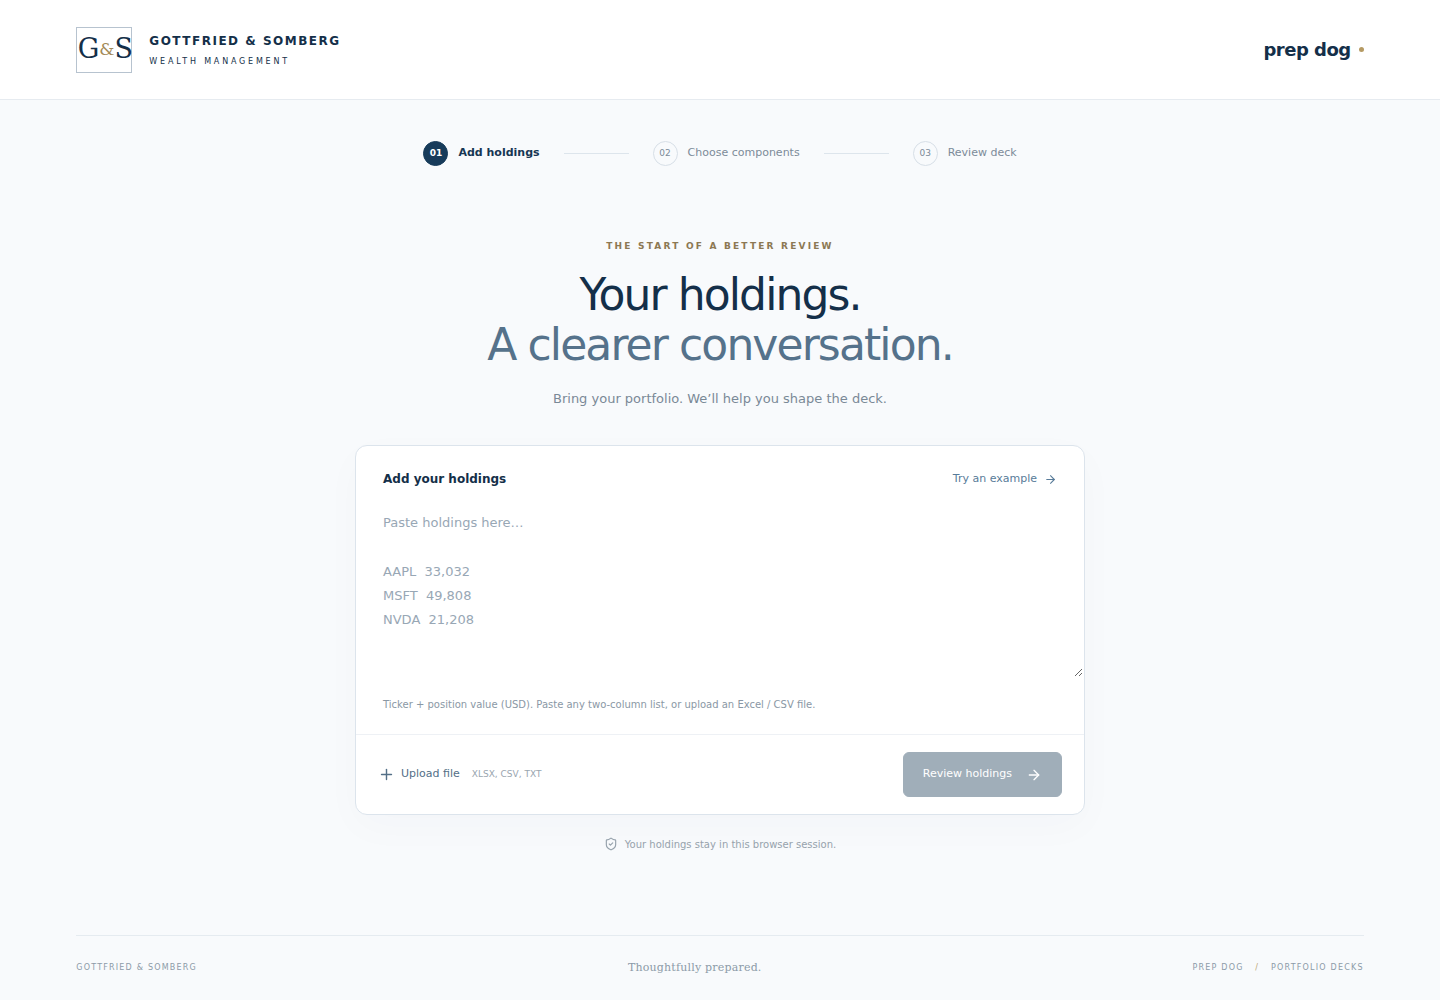
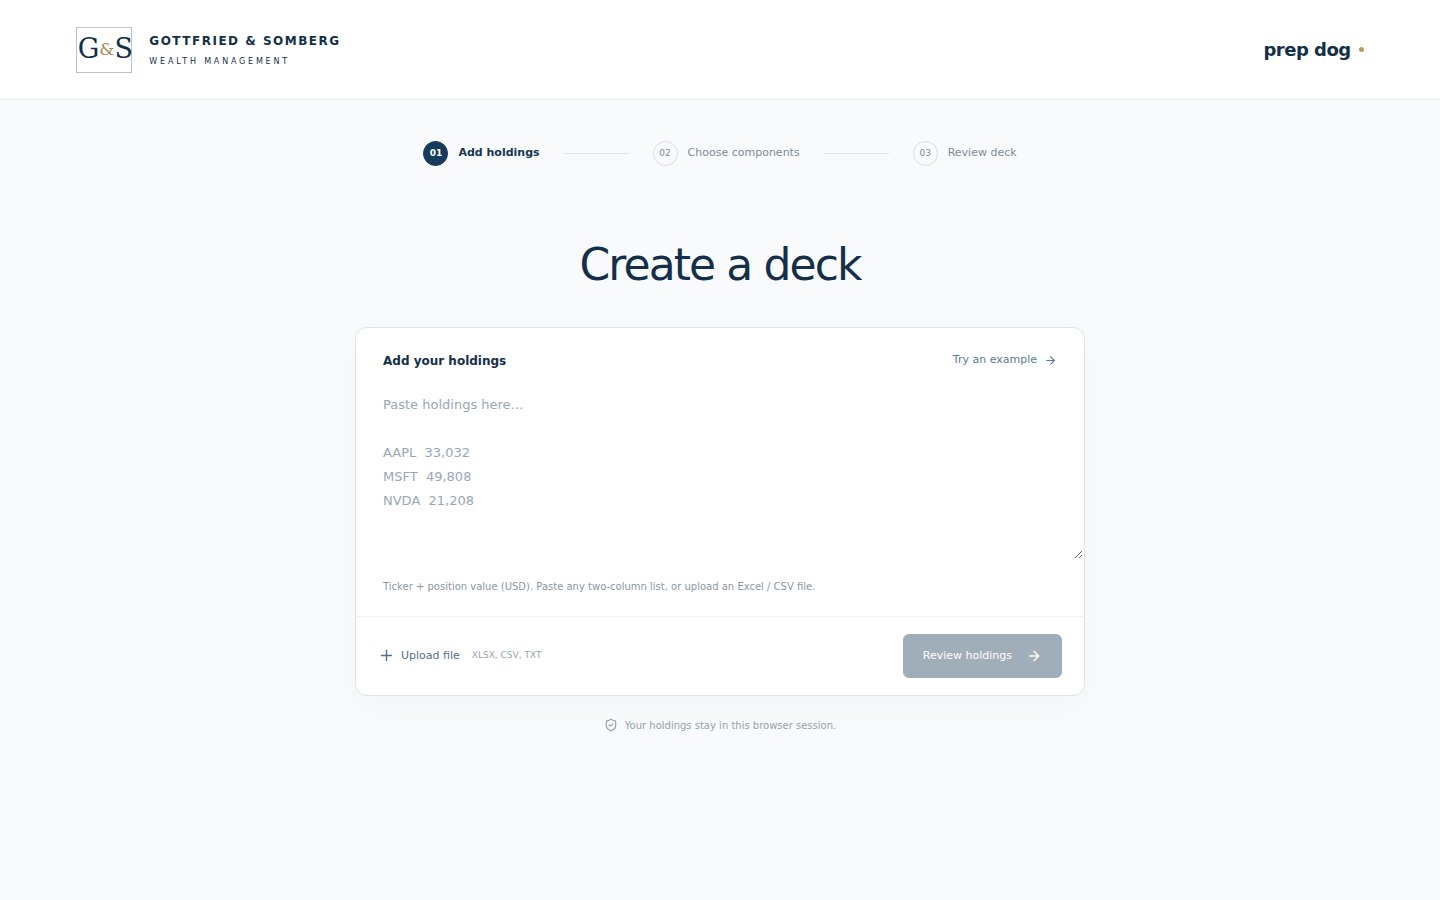
Simplify the interface and remove marketing slogans and decorative footer

diff --git a/src/main.jsx b/src/main.jsx
@@ -392,13 +392,7 @@ function App() {
           {step === 0 && (
             <>
               <div className="intro">
-                <p className="eyebrow">THE START OF A BETTER REVIEW</p>
-                <h1>
-                  Your holdings.
-                  <br />
-                  <span>A clearer conversation.</span>
-                </h1>
-                <p>Bring your portfolio. We’ll help you shape the deck.</p>
+                <h1>Create a deck</h1>
               </div>
               {!reviewed ? (
                 <section
@@ -531,8 +525,7 @@ function App() {
             <>
               <div className="workspace-heading">
                 <div>
-                  <p className="eyebrow">MAKE IT YOURS</p>
-                  <h1>Only what matters.</h1>
+                  <h1>Choose components</h1>
                   <p>Select the components you want in your deck.</p>
                 </div>
                 <span className="portfolio-pill">
@@ -685,11 +678,8 @@ function App() {
             <>
               <div className="workspace-heading">
                 <div>
-                  <p className="eyebrow">
-                    {done ? "READY FOR THE CONVERSATION" : "ONE LAST LOOK"}
-                  </p>
                   <h1>
-                    {done ? "Your deck is ready." : "A deck, on your terms."}
+                    {done ? "Your deck is ready." : "Review your deck"}
                   </h1>
                   <p>
                     {done
@@ -769,13 +759,7 @@ function App() {
             </>
           )}
         </main>
-        <footer className="app-footer">
-          <span>GOTTFRIED & SOMBERG</span>
-          <span>Thoughtfully prepared.</span>
-          <span>
-            PREP DOG <span className="footer-divider">/</span> PORTFOLIO DECKS
-          </span>
-        </footer>
+
       </div>
       {showExample && (
         <div className="modal-backdrop" onClick={() => setShowExample(false)}>
